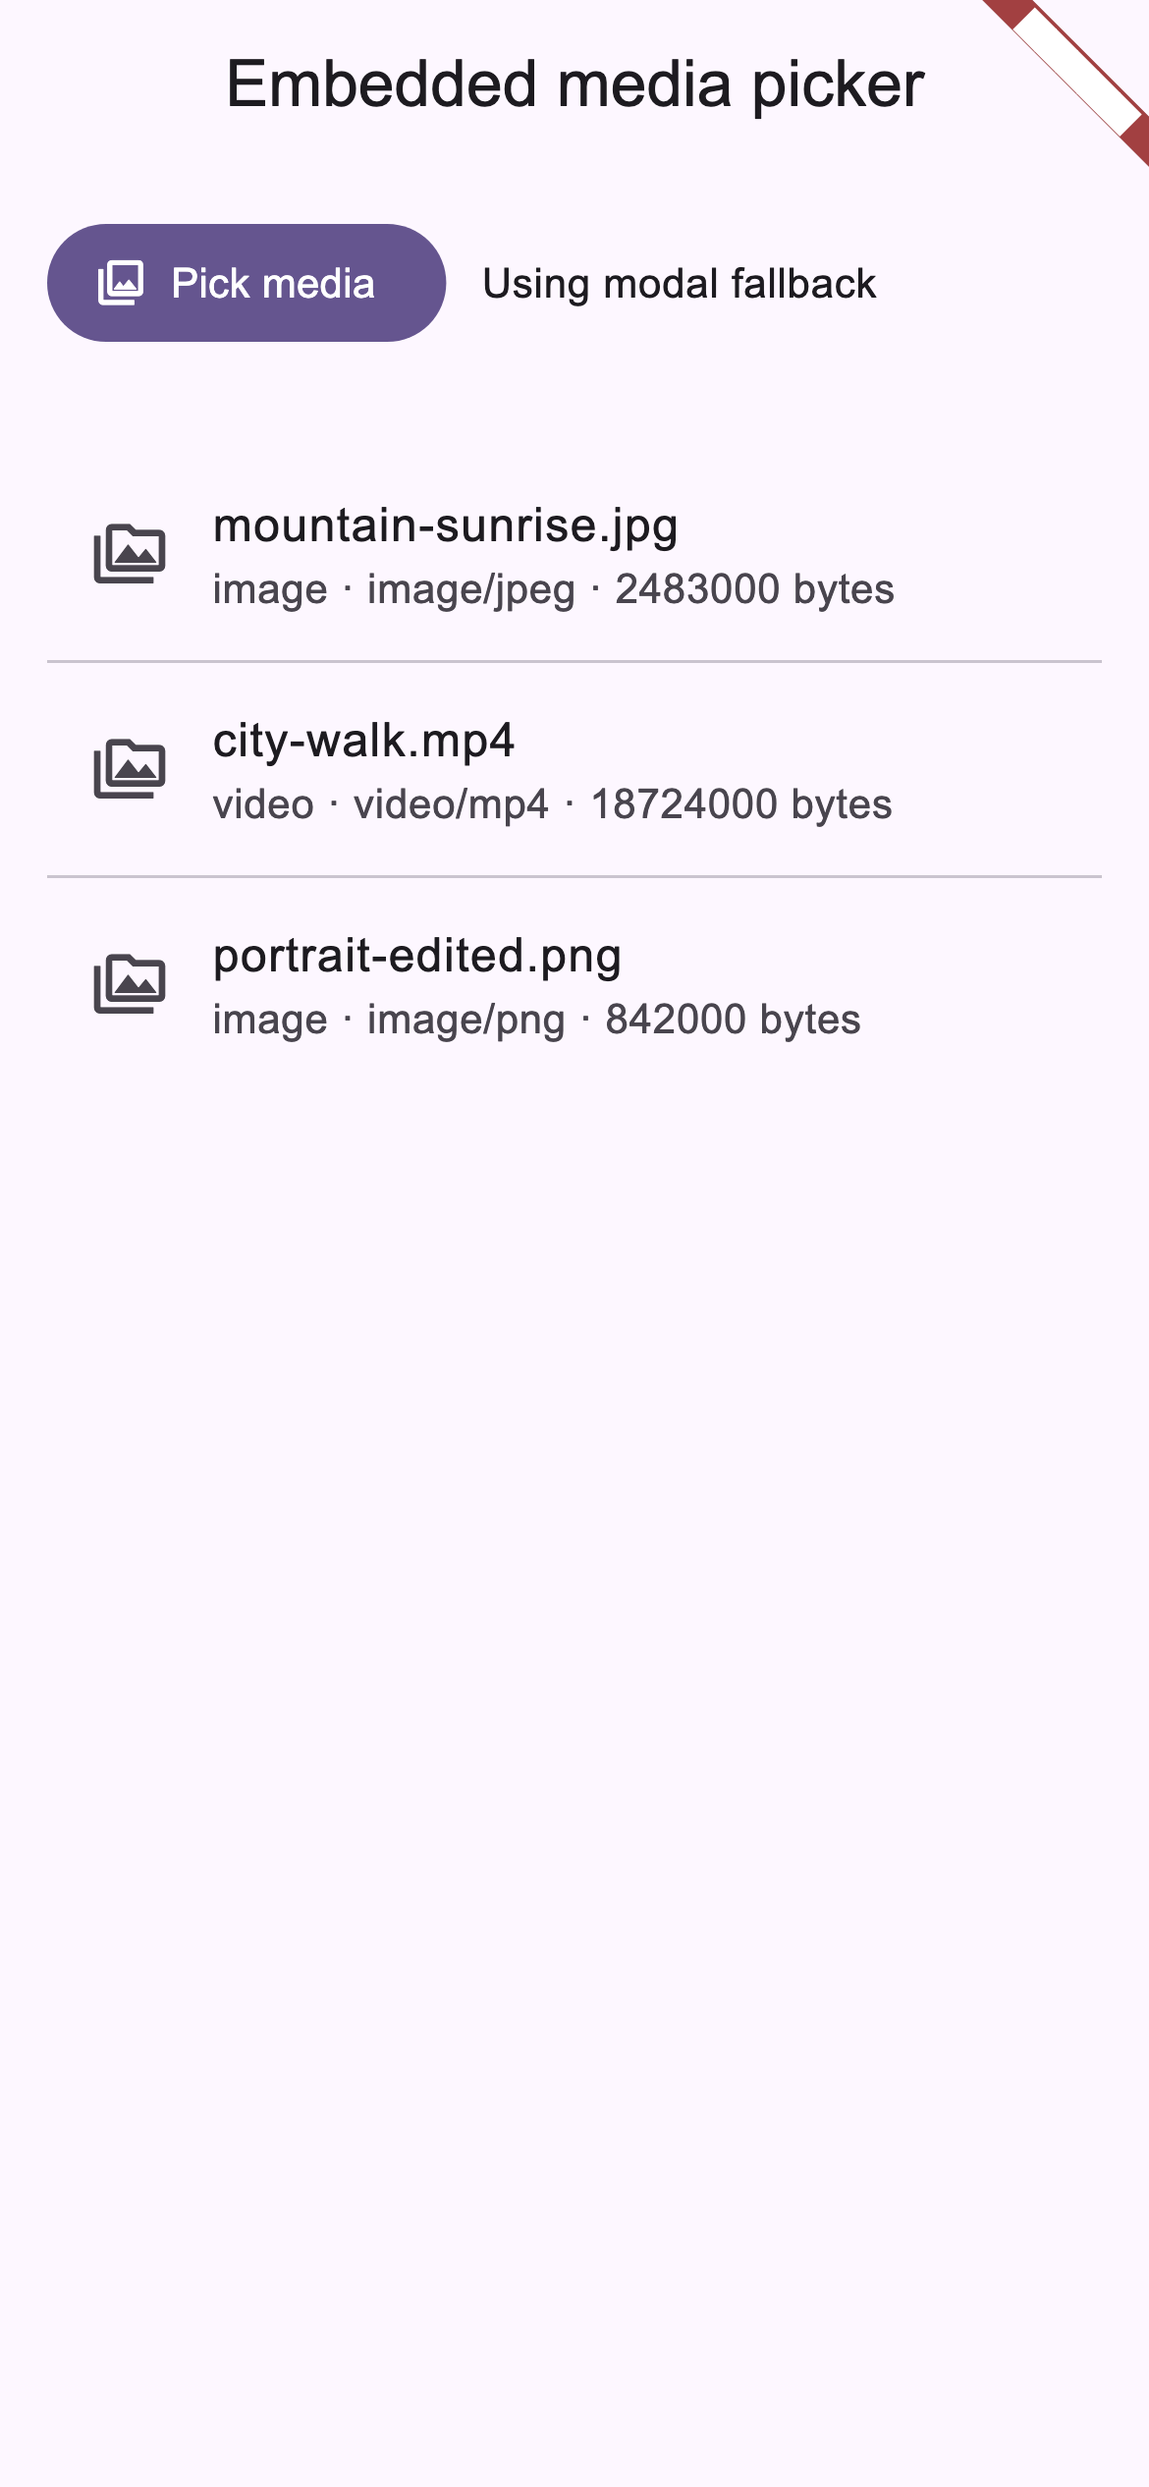
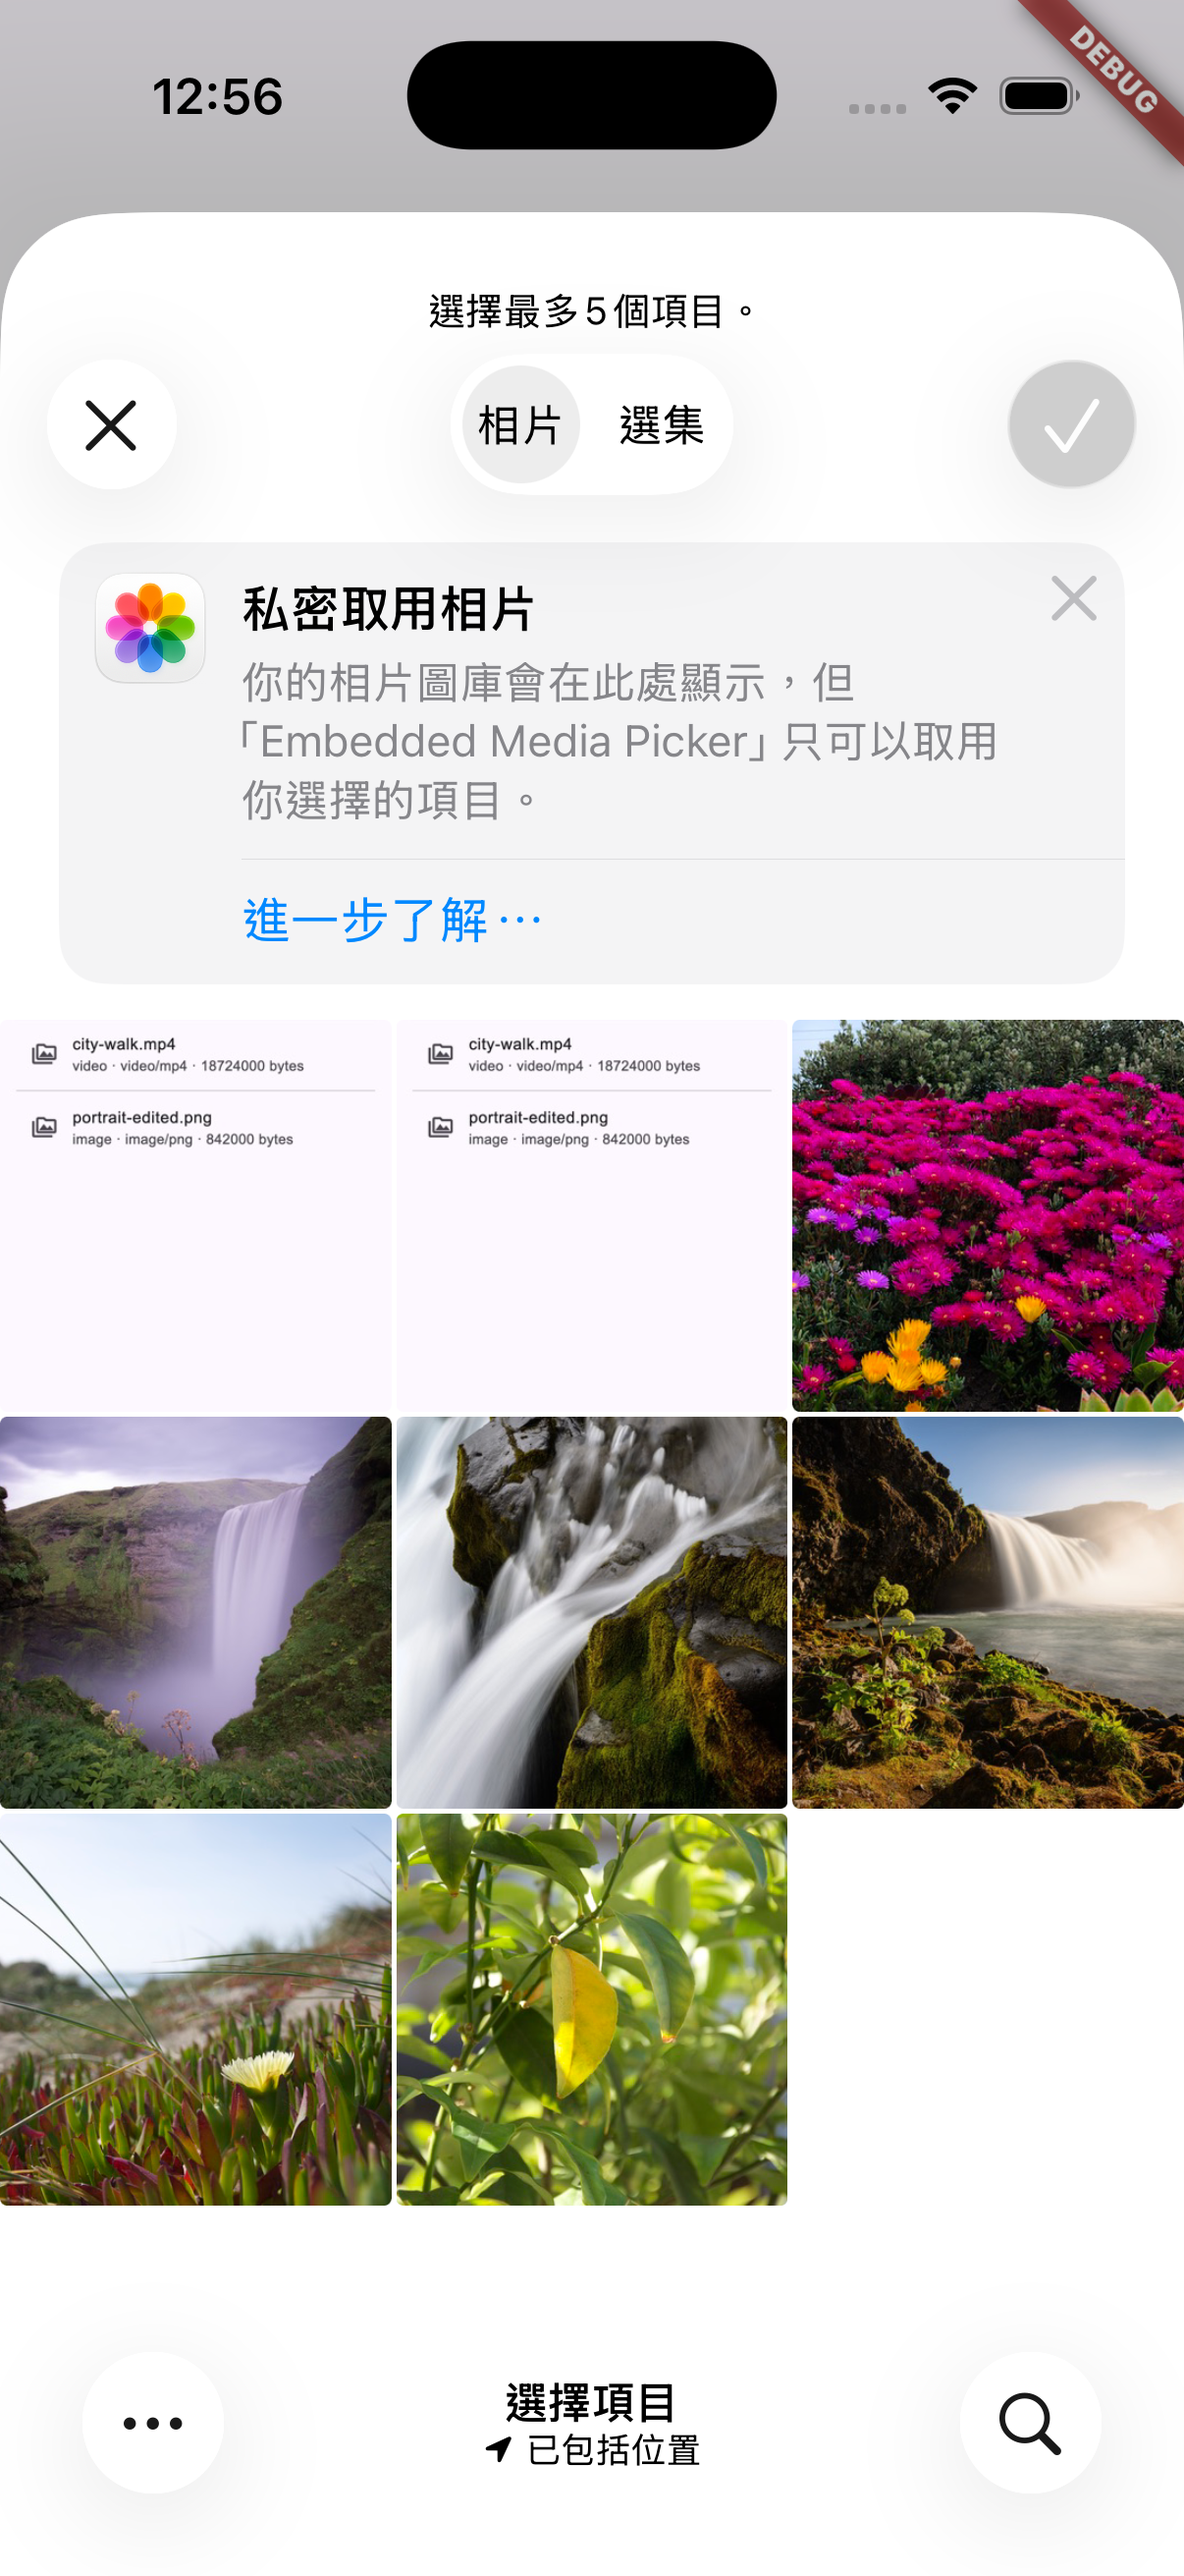
Add native picker screenshots

diff --git a/example/lib/main.dart b/example/lib/main.dart
@@ -43,6 +43,7 @@ class PickerExampleScreen extends StatefulWidget {
 }
 
 class _PickerExampleScreenState extends State<PickerExampleScreen> {
+  static const _autoOpenPicker = bool.fromEnvironment('AUTO_OPEN_PICKER');
   static const options = EmbeddedMediaPickerOptions(
     maxSelectionLimit: 5,
     orderedSelection: true,
@@ -58,7 +59,17 @@ class _PickerExampleScreenState extends State<PickerExampleScreen> {
   @override
   void initState() {
     super.initState();
-    _loadAvailability();
+    if (!_autoOpenPicker) {
+      _loadAvailability();
+    }
+    if (_autoOpenPicker) {
+      WidgetsBinding.instance.addPostFrameCallback((_) {
+        Future<void>.delayed(
+          const Duration(milliseconds: 700),
+          _pickWithFallback,
+        );
+      });
+    }
   }
 
   Future<void> _loadAvailability() async {
@@ -123,7 +134,7 @@ class _PickerExampleScreenState extends State<PickerExampleScreen> {
                 ),
               ),
             Expanded(
-              child: _embeddedAvailable
+              child: _embeddedAvailable && !_autoOpenPicker
                   ? EmbeddedMediaPickerView(
                       options: options,
                       controller: _controller,

diff --git a/example/tool/render_screenshots_test.dart b/example/tool/render_screenshots_test.dart
@@ -72,7 +72,7 @@ void main() {
 
     await expectLater(
       find.byType(ExampleApp),
-      matchesGoldenFile('../screenshots/android.png'),
+      matchesGoldenFile('../screenshots/selected-android.png'),
     );
   });
 
@@ -91,7 +91,7 @@ void main() {
 
     await expectLater(
       find.byType(ExampleApp),
-      matchesGoldenFile('../screenshots/ios.png'),
+      matchesGoldenFile('../screenshots/selected-ios.png'),
     );
   });
 }

diff --git a/README.md b/README.md
@@ -14,13 +14,15 @@ Android embedded picker support uses
 `androidx.photopicker:photopicker:1.0.0-alpha02`. Treat the embedded Android
 surface as early-stage until AndroidX publishes a stable artifact.
 
-## Screenshots
+## Native Picker UI
 
 | Android | iOS |
 | --- | --- |
-| ![Android example](example/screenshots/android.png) | ![iOS example](example/screenshots/ios.png) |
+| ![Android native picker](example/screenshots/android.png) | ![iOS native picker](example/screenshots/ios.png) |
 
-Regenerate these images with
+The example also includes generated selected-result screenshots at
+`example/screenshots/selected-android.png` and
+`example/screenshots/selected-ios.png`. Regenerate those images with
 `flutter test tool/render_screenshots_test.dart --update-goldens` from the
 `example` directory.
 
